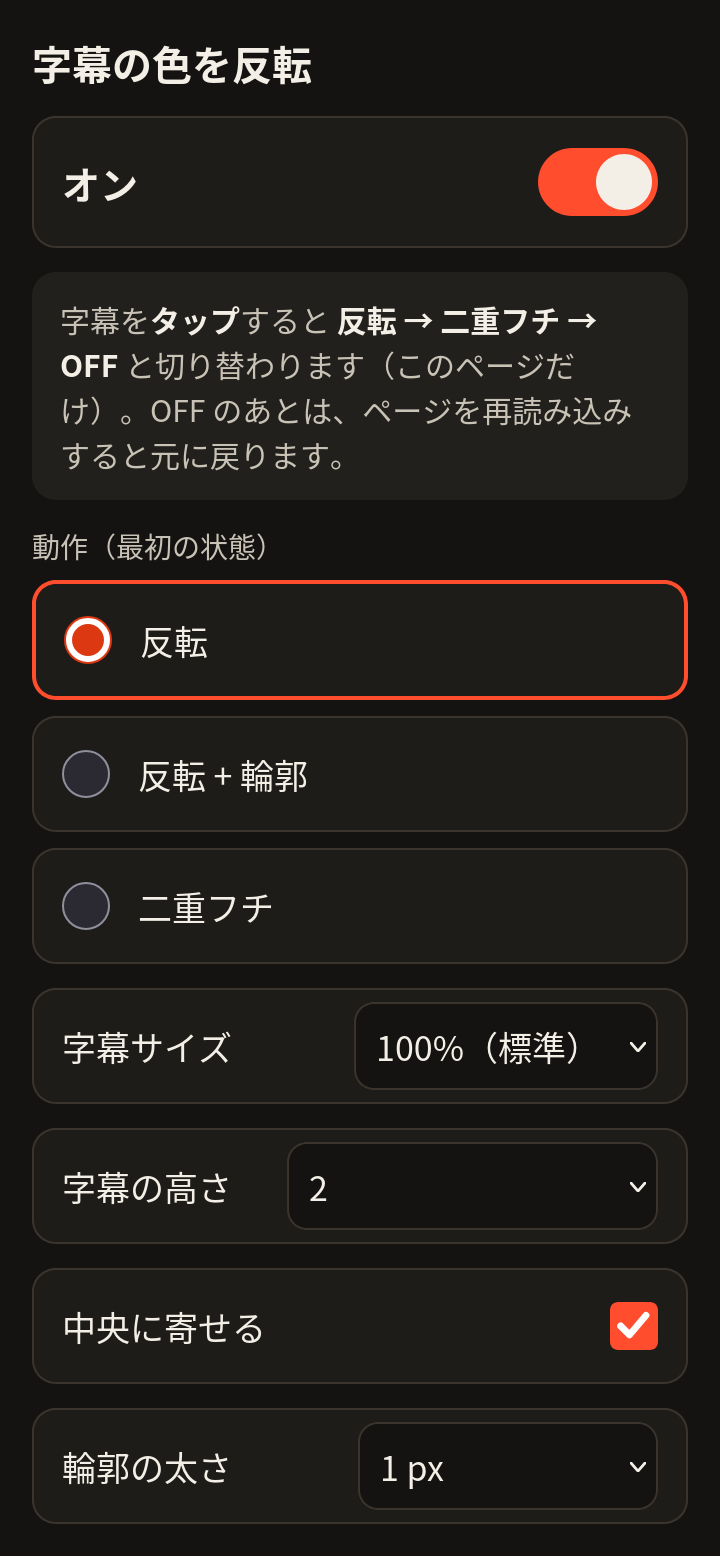
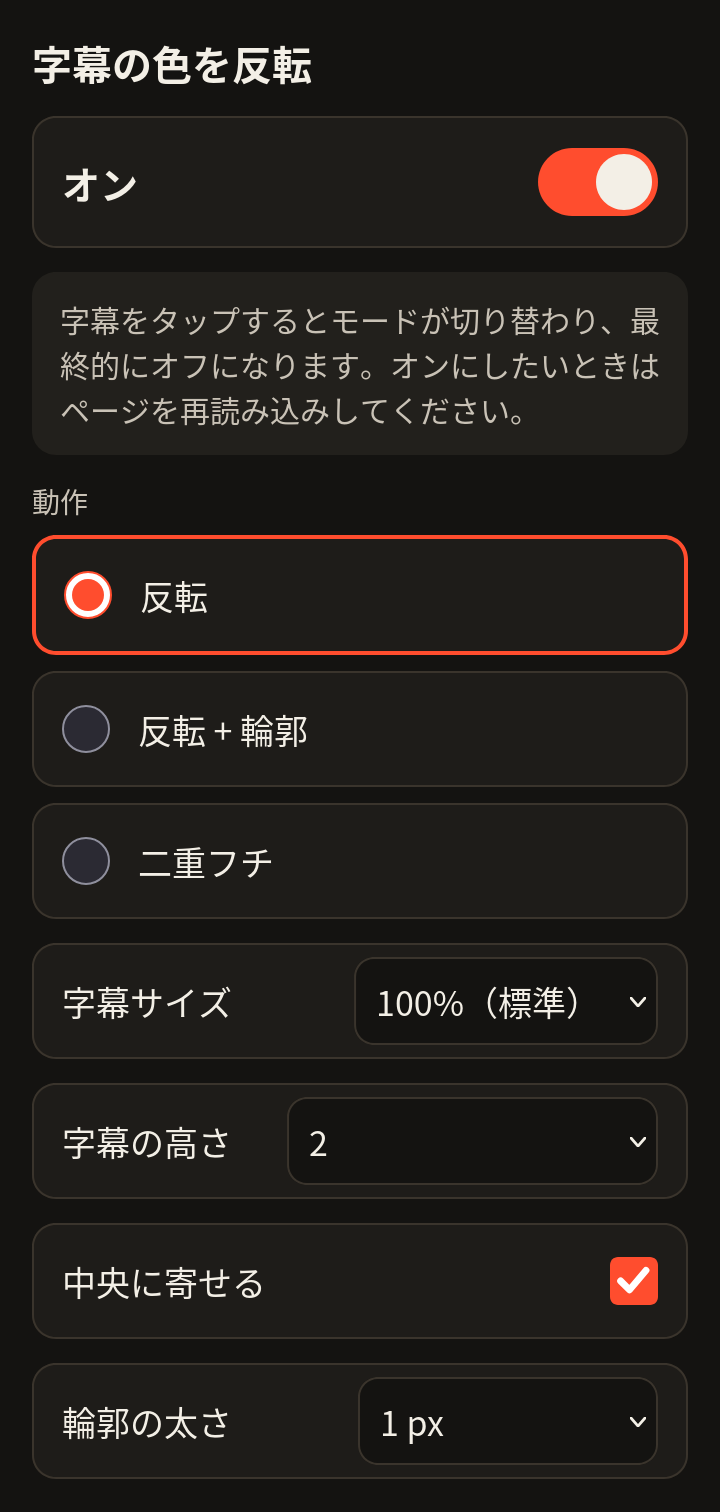
v2.5.1

diff --git a/src/content.js b/src/content.js
@@ -1,5 +1,5 @@
-/* 字幕の色を反転 Android 版 2.5.0（デスクトップ版 2.4.3 から分岐）
- * - 字幕をタップすると「反転 → 二重フチ → OFF」と切り替わる（このページだけ。再読み込みで保存した動作に戻る）。
+/* 字幕の色を反転 Android 版 2.5.1（デスクトップ版 2.4.3 から分岐）
+ * - 字幕をタップすると「反転 → 反転+輪郭 →（高さを標準へ）→ 二重フチ → OFF」と切り替わる（このページだけ。再読み込みで保存した設定に戻る）。
  * - 反転 / 反転+輪郭 / 二重フチ は CSS（invert.css）で描く。ここではクラスと CSS 変数を切り替えるだけ。
  * - 字幕サイズ: YouTube は .ytp-caption-segment のインライン style に font-size を書き、
  *   プレーヤーのサイズが変わるたびに書き直す。その値を元に倍率をかけて !important で上書きする。
@@ -24,8 +24,8 @@
   const path = location.pathname || "";
   if (isTop ? /^\/live_chat/.test(path) : !/^\/embed\//.test(path)) return;
 
-  if (root.dataset.yticExt === "a250") return;
-  root.dataset.yticExt = "a250";
+  if (root.dataset.yticExt === "a251") return;
+  root.dataset.yticExt = "a251";
 
   const MODES = ["invert", "stroke", "edge"];
   const FONT_STEPS = [50, 75, 100, 150, 200, 300, 400];
@@ -104,6 +104,19 @@
   }
 
   let pageMode = ""; // このページだけの切り替え（"" = 保存した設定のまま）
+  let pagePos = 0; // このページだけの字幕の高さ（0 = 保存した設定のまま）
+  // 表示言語は Firefox（Android）の言語に従う。ja で始まれば日本語、それ以外は英語。
+  const LANG = (() => {
+    try {
+      return /^ja/i.test(chrome.i18n.getUILanguage()) ? "ja" : "en";
+    } catch (e) {
+      return /^ja/i.test(navigator.language || "") ? "ja" : "en";
+    }
+  })();
+  const TOAST_TEXT = {
+    ja: { invert: "反転", stroke: "反転 + 輪郭", pos: "高さ 標準", edge: "二重フチ", off: "OFF" },
+    en: { invert: "Invert", stroke: "Invert + outline", pos: "Height: default", edge: "Double edge", off: "OFF" },
+  }[LANG];
 
   function migrate(data) {
     const fresh = data.settingsRev !== 1;
@@ -216,7 +229,8 @@
     if (centerOn) root.dataset.yticCenter = "1";
     else delete root.dataset.yticCenter;
     // 字幕の高さ。位置は invert.css が YouTube 標準の位置（bottom: 2%）にある枠だけを動かす。
-    const pos = on && state.capPos > 1 ? String(state.capPos) : "";
+    const capPos = pagePos || state.capPos;
+    const pos = on && capPos > 1 ? String(capPos) : "";
     if (pos) {
       if (root.dataset.yticPos !== pos) root.dataset.yticPos = pos;
     } else delete root.dataset.yticPos;
@@ -447,8 +461,7 @@
   const TAP_MOVE = 12;
   const TAP_MS = 600;
   const HIT_PAD = 8; // 字幕の周り 8px もタップ範囲にする（指で押しやすく）
-  const CYCLE = ["invert", "edge", "off"];
-  let gesture = null; // { x, y, t, moved, done, player }
+    let gesture = null; // { x, y, t, moved, done, player }
   let swallowUntil = 0; // この時刻までの互換 mouse/click は字幕操作の続きとして捨てる
 
   function effectiveMode() {
@@ -530,13 +543,28 @@
     if (Date.now() < swallowUntil) swallow(event, true);
   }
 
+  // 反転 → 反転+輪郭 →（高さが標準でなければ）高さを標準(1)へ → 二重フチ → OFF
   function cycleMode(player, x, y) {
     const now = effectiveMode();
-    const index = now === "stroke" ? 0 : CYCLE.indexOf(now);
-    pageMode = CYCLE[(index + 1) % CYCLE.length];
+    let label;
+    if (now === "invert") {
+      pageMode = "stroke";
+      label = "stroke";
+    } else if (now === "stroke" && (pagePos || state.capPos) !== 1) {
+      pageMode = "stroke";
+      pagePos = 1;
+      label = "pos";
+    } else if (now === "stroke") {
+      pageMode = "edge";
+      label = "edge";
+    } else {
+      pageMode = "off";
+      label = "off";
+    }
     apply();
-    toast(player, x, y, pageMode === "invert" ? "反転" : pageMode === "edge" ? "二重フチ" : "OFF");
+    toast(player, x, y, TOAST_TEXT[label]);
   }
+
 
   let toastEl = null;
   let toastTimer = 0;
@@ -587,6 +615,7 @@
     if (area !== "local") return;
     // メニューで「オン/オフ」か「動作」を変えたら、タップで切り替えた状態よりメニューを優先する。
     if (changes.mode || changes.enabled) pageMode = "";
+    if (changes.mode || changes.enabled || changes.capPos) pagePos = 0;
     load(false);
   });
 

diff --git a/src/popup.html b/src/popup.html
@@ -125,31 +125,28 @@
         font-size: 15px;
         line-height: 1.5;
       }
-      .hint b {
-        color: #f3efe6;
-      }
-    </style>
+          </style>
   </head>
   <body>
     <main>
-      <h1>字幕の色を反転</h1>
+      <h1 data-i18n="title">字幕の色を反転</h1>
       <label class="card big">
-        <span>オン</span>
+        <span data-i18n="on">オン</span>
         <input id="enabled" class="switch" type="checkbox" />
       </label>
-      <p class="hint">字幕を<b>タップ</b>すると <b>反転 → 二重フチ → OFF</b> と切り替わります（このページだけ）。OFF のあとは、ページを再読み込みすると元に戻ります。</p>
+      <p class="hint" data-i18n="hint">字幕をタップするとモードが切り替わり、最終的にオフになります。オンにしたいときはページを再読み込みしてください。</p>
       <fieldset>
-        <legend>動作（最初の状態）</legend>
-        <label><input type="radio" name="mode" value="invert" /> <span>反転</span></label>
-        <label><input type="radio" name="mode" value="stroke" /> <span>反転 + 輪郭</span></label>
-        <label><input type="radio" name="mode" value="edge" /> <span>二重フチ</span></label>
+        <legend data-i18n="mode">動作</legend>
+        <label><input type="radio" name="mode" value="invert" /> <span data-i18n="invert">反転</span></label>
+        <label><input type="radio" name="mode" value="stroke" /> <span data-i18n="stroke">反転 + 輪郭</span></label>
+        <label><input type="radio" name="mode" value="edge" /> <span data-i18n="edge">二重フチ</span></label>
       </fieldset>
       <label class="card">
-        <span>字幕サイズ</span>
+        <span data-i18n="size">字幕サイズ</span>
         <select id="fontPct">
           <option value="50">50%</option>
           <option value="75">75%</option>
-          <option value="100">100%（標準）</option>
+          <option value="100" data-i18n="size100">100%（標準）</option>
           <option value="150">150%</option>
           <option value="200">200%</option>
           <option value="300">300%</option>
@@ -157,9 +154,9 @@
         </select>
       </label>
       <label class="card">
-        <span>字幕の高さ</span>
+        <span data-i18n="height">字幕の高さ</span>
         <select id="capPos">
-          <option value="1">1（YouTube標準）</option>
+          <option value="1" data-i18n="pos1">1（YouTube標準）</option>
           <option value="2">2</option>
           <option value="3">3</option>
           <option value="4">4</option>
@@ -168,15 +165,15 @@
           <option value="7">7</option>
           <option value="8">8</option>
           <option value="9">9</option>
-          <option value="10">10（いちばん上）</option>
+          <option value="10" data-i18n="pos10">10（いちばん上）</option>
         </select>
       </label>
       <label class="card">
-        <span>中央に寄せる</span>
+        <span data-i18n="center">中央に寄せる</span>
         <input id="center" type="checkbox" />
       </label>
       <label class="card">
-        <span>輪郭の太さ</span>
+        <span data-i18n="width">輪郭の太さ</span>
         <select id="strokeWidth">
           <option value="0">0 px</option>
           <option value="1">1 px</option>

diff --git a/src/popup.js b/src/popup.js
@@ -1,5 +1,38 @@
 /* 字幕の色を反転（Android 版）ポップアップ。項目を絞り、指で押しやすくしたもの。
    ここで扱わない設定（文字の太さ・二重フチの色など）は保存済みの値をそのまま残す。 */
+// 表示言語は Firefox の言語に従う（ja で始まれば日本語、それ以外は英語）。切り替えボタンはない。
+const LANG = (() => {
+  try {
+    return /^ja/i.test(chrome.i18n.getUILanguage()) ? "ja" : "en";
+  } catch (e) {
+    return /^ja/i.test(navigator.language || "") ? "ja" : "en";
+  }
+})();
+const TEXT_EN = {
+  title: "Inverted subtitles",
+  on: "On",
+  hint: "Tap a caption to switch modes; it eventually turns off. Reload the page to turn it back on.",
+  mode: "Mode",
+  invert: "Invert",
+  stroke: "Invert + outline",
+  edge: "Double edge",
+  size: "Caption size",
+  height: "Caption height",
+  center: "Center captions",
+  width: "Outline width",
+  size100: "100% (default)",
+  pos1: "1 (YouTube default)",
+  pos10: "10 (top)",
+};
+if (LANG === "en") {
+  document.documentElement.lang = "en";
+  document.title = TEXT_EN.title;
+  document.querySelectorAll("[data-i18n]").forEach((el) => {
+    const t = TEXT_EN[el.getAttribute("data-i18n")];
+    if (t) el.textContent = t;
+  });
+}
+
 const MODES = ["invert", "stroke", "edge"];
 const FONT_STEPS = [50, 75, 100, 150, 200, 300, 400];
 const WIDTH_STEPS = [0, 1, 2, 3, 4, 6];

diff --git a/CHANGES_android_ja.md b/CHANGES_android_ja.md
@@ -1,3 +1,10 @@
+# Android 版 2.5.1
+- 字幕タップの切り替えを変更（このページだけ・保存しない・再読み込みで保存した設定に戻る）:
+  反転 → 反転 + 輪郭 →（字幕の高さが 1 以外なら）高さを標準(1)に → 二重フチ → OFF。
+  表示: 「反転 + 輪郭」「高さ 標準」「二重フチ」「OFF」。メニューで高さを変えるとタップの高さ変更は解除。
+- メニューの説明文を「字幕をタップするとモードが切り替わり、最終的にオフになります。オンにしたいときはページを再読み込みしてください。」に変更。
+- 表示言語を Firefox の言語に自動で合わせる（日本語以外は英語）。メニューと切り替え表示の両方。
+
 # Android 版 2.5.0（デスクトップ版 2.4.3 から分岐）
 - ID: android.youtube.inverted.color.subtitle@kofu.com / Firefox for Android 120 以上専用（gecko_android）。
 - 字幕をタップすると「反転 → 二重フチ → OFF」と切り替わる（このページだけ。再読み込みで保存した動作に戻る。メニューで動作やオン/オフを変えるとタップの切り替えは解除）。
